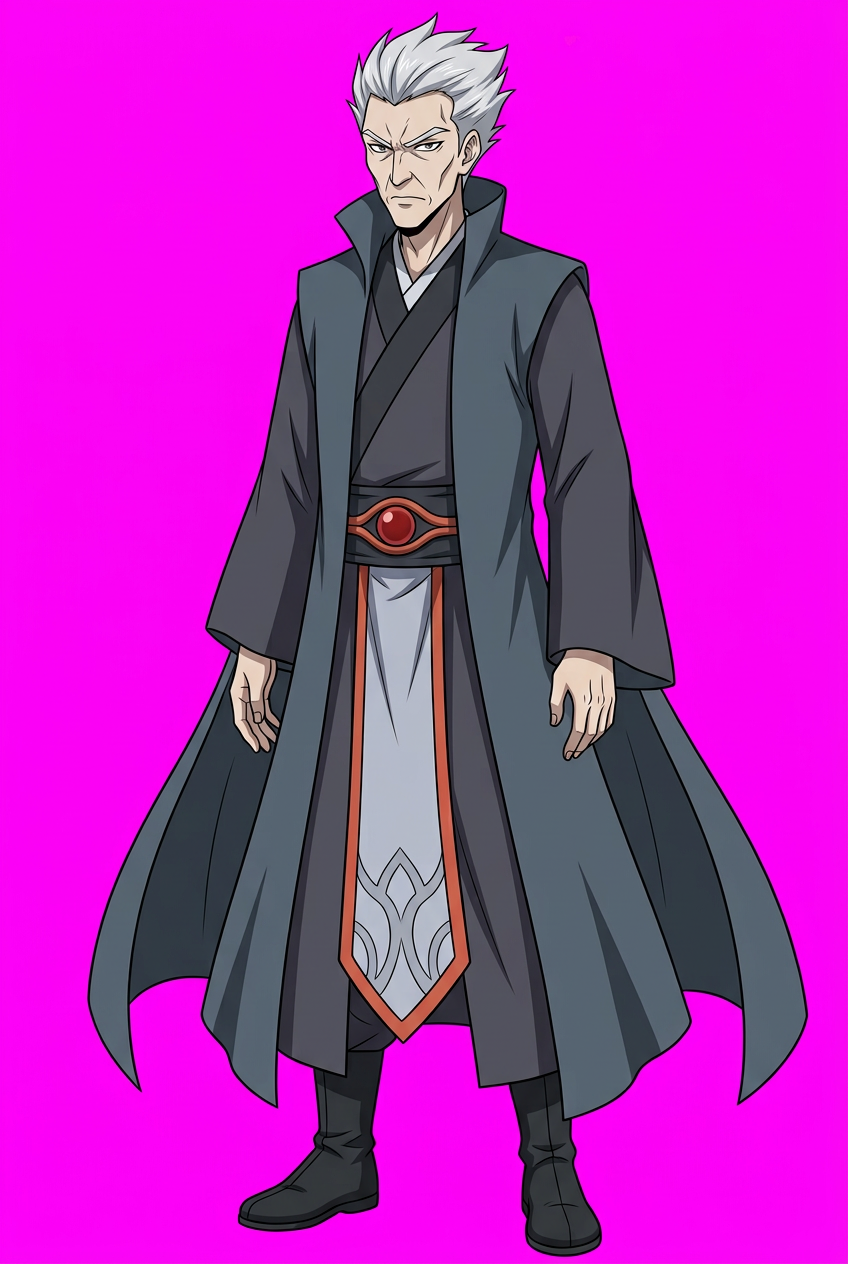
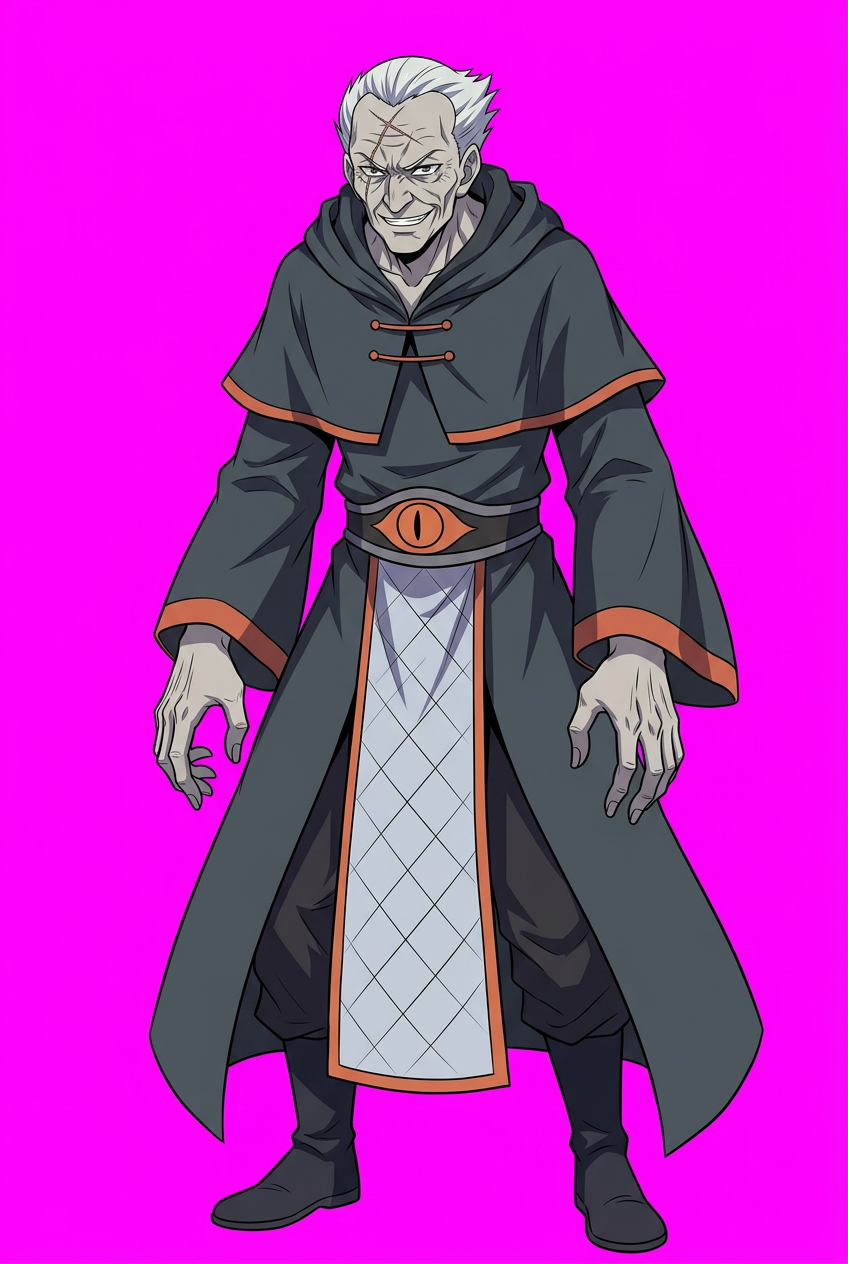
art: 谢震 redrawn from manhua ch191

diff --git a/dev/design/角色总表_全作.md b/dev/design/角色总表_全作.md
@@ -267,3 +267,5 @@
 | 谢碧炎（蝎毕岩） | 万蝎门老祖（四星斗宗） | 185 | xiebiyan | 白发髻，黑袍蝎纹，蝎头杖（武器另做） |
 | 铁护法 | 魂殿（出云帝国篇） | 186-187 | tiehufa | 黑兜帽、红眼、骨刺肩甲 |
 注：雁落天/木兰大长老/乌亚/谢山 已按漫画 176-186 话重绘。吴护法（吴英）漫画首见 164 话（云岚宗婚礼，黑雾人形）。
+
+注：谢震（魔炎谷·鹰爪老者）已按漫画191话重绘。191话红发红衣者为萧厉（漫画红发）——现有 xiaoli 需按漫画核对。方岩漫画首见194话。
